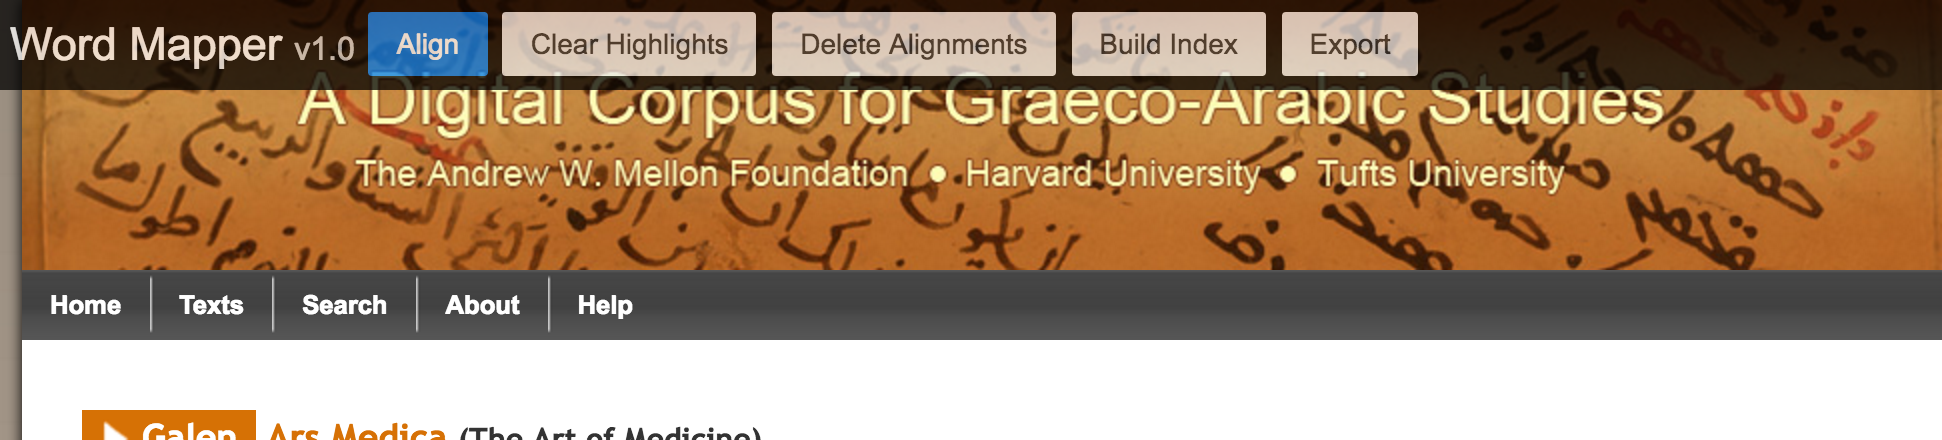
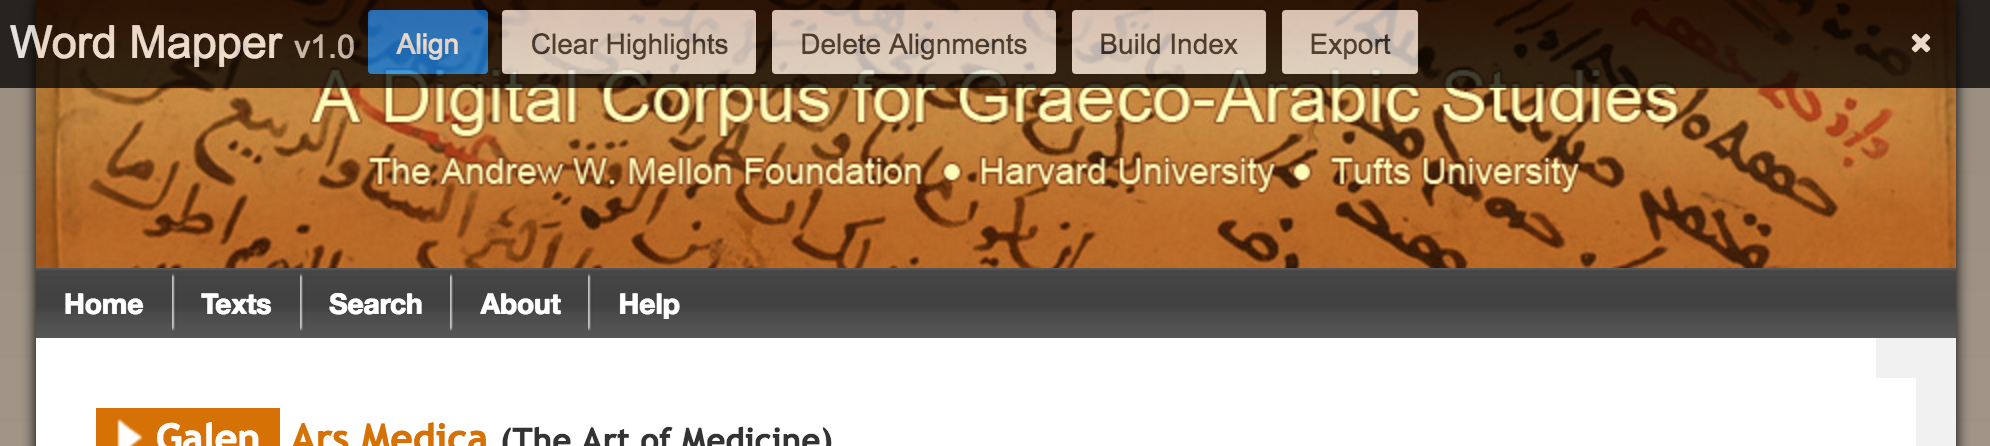
WordMapper_widget_close, proposed screen ad UI

Changed region(s): [[0.0, 0.0, 1.0, 1.0], [0.896, 0.0, 1.0, 0.1182]]

diff --git a/WordMapper_widget_close/index.html b/WordMapper_widget_close/index.html
@@ -1,3 +1,7 @@
+<!-- UI comment - adding Bootstrap and Font-Awesome -->
+<link href="http://getbootstrap.com/dist/css/bootstrap.css" rel="stylesheet">
+<link href="http://fontawesome.io/assets/font-awesome/css/font-awesome.css" rel="stylesheet">
+
 <div class="wordmapper wordmapper-panel wordmapper-panel-top">
   <div class="wordmapper-logo">
     Word Mapper <small>v1.0</small>
@@ -8,5 +12,9 @@
     <button name="clear_alignments" class="wordmapper-tooltip" title="Delete alignments" data-confirm="Are you sure you want to delete *ALL* alignments on this page?">Delete Alignments</button>
     <button name="build_index" class="wordmapper-tooltip" title="Build index of aligned words">Build Index</button>
     <button name="export" class="wordmapper-tooltip" title="Export the aligned words">Export</button>
+
+<!-- UI comment - adding a new button to close the WordMapper widget -->
+    <button name="close" class="wordmapper-tooltip pull-right" title="Close Word Mapper" style="background-color:#000; color:#fff; padding-right:2em;"><i class="fa fa-times"></i></button>
+
   </div>
 </div>
